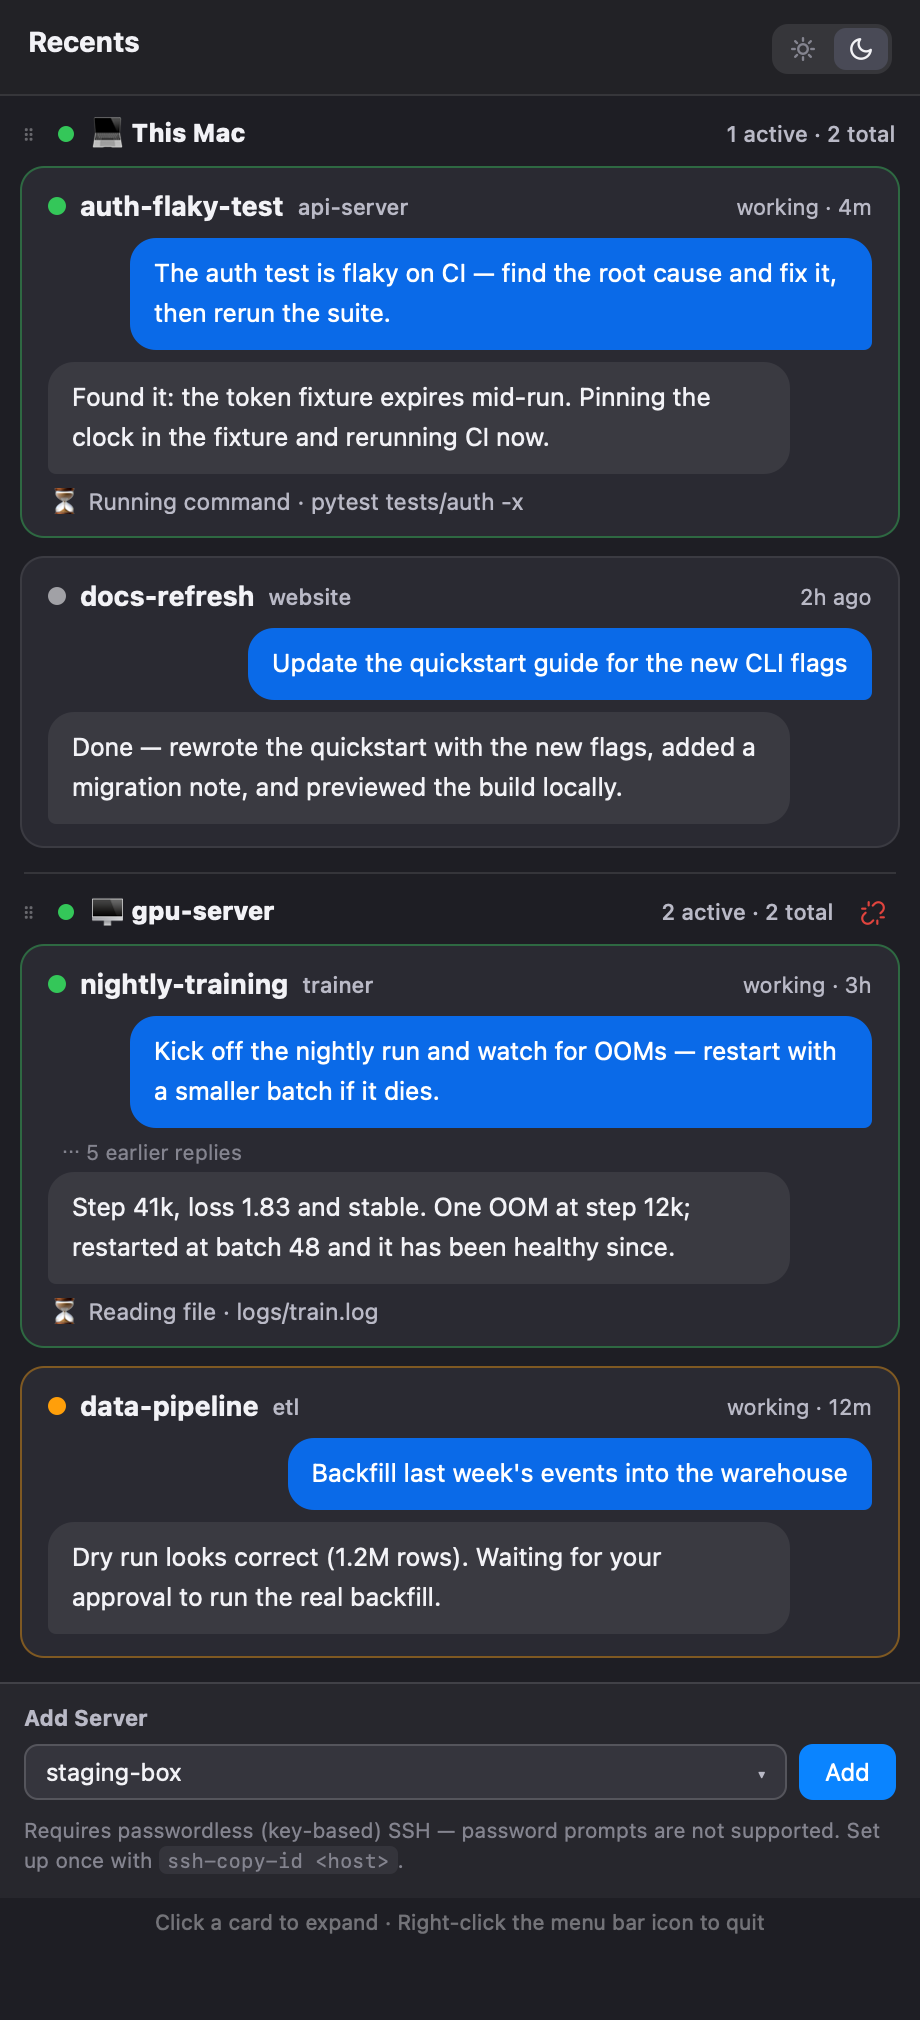
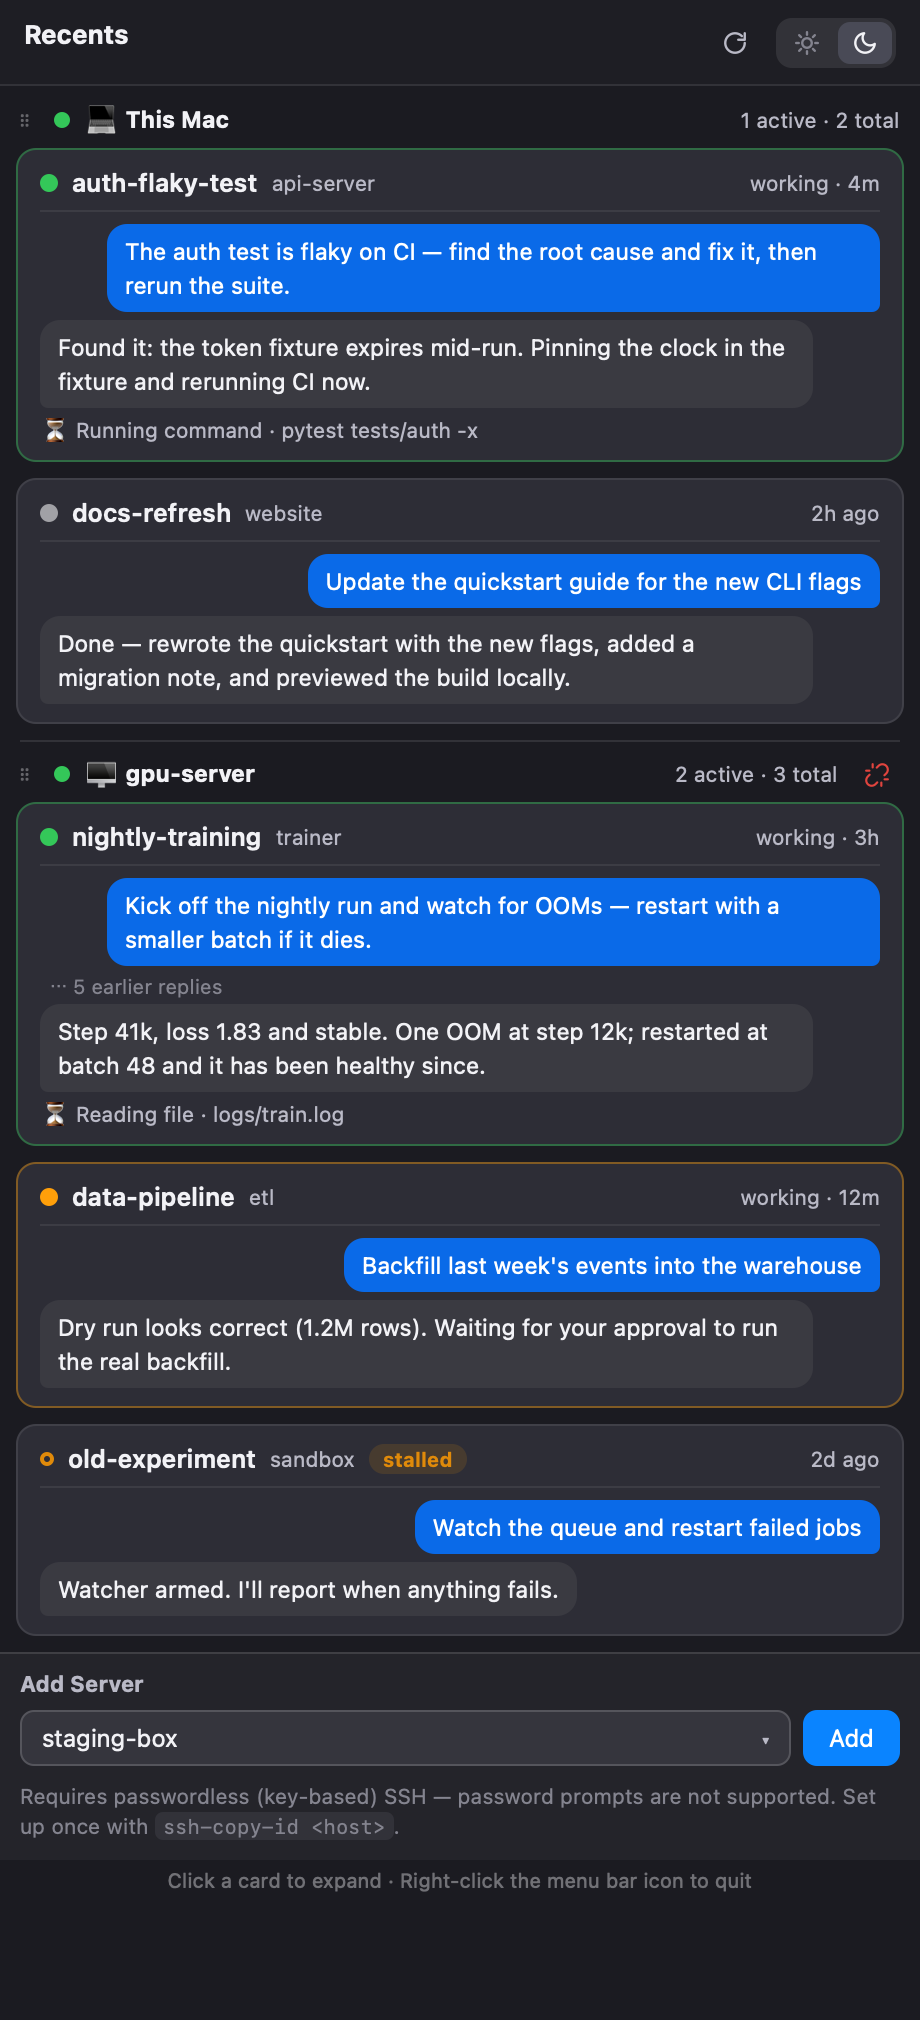
Release 0.1.6: stalled state, refined UI, updated screenshots
Claude-Session: https://claude.ai/code/session_01Hyym5n9rXVc8de3wTMwMif

diff --git a/setup.py b/setup.py
@@ -21,8 +21,8 @@ setup(
                 "CFBundleName": "Claude Recents",
                 "CFBundleDisplayName": "Claude Recents",
                 "CFBundleIdentifier": "com.kiddj.claude-recents",
-                "CFBundleShortVersionString": "0.1.5",
-                "CFBundleVersion": "0.1.5",
+                "CFBundleShortVersionString": "0.1.6",
+                "CFBundleVersion": "0.1.6",
                 "LSUIElement": True,  # 메뉴바 전용: Dock 아이콘 없음
                 # GUI 앱은 로케일 env 없이 떠서 기본 인코딩이 ASCII가 됨 —
                 # 한글 트랜스크립트를 읽는 순간 죽는다. UTF-8 강제.
